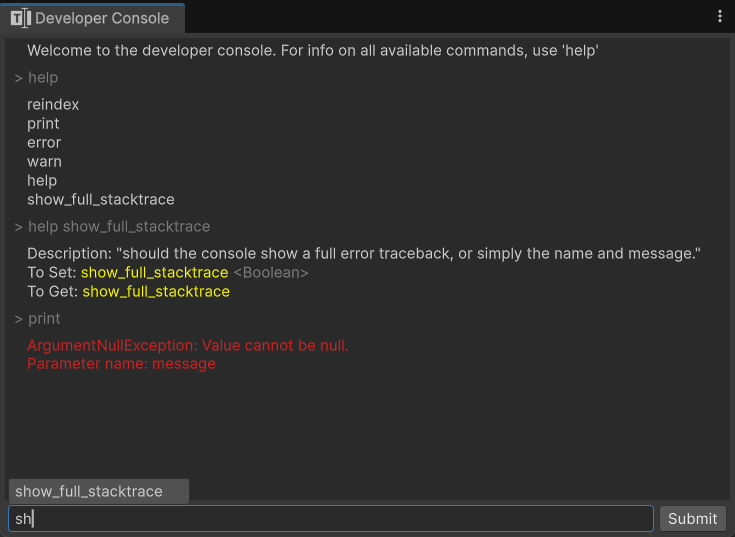
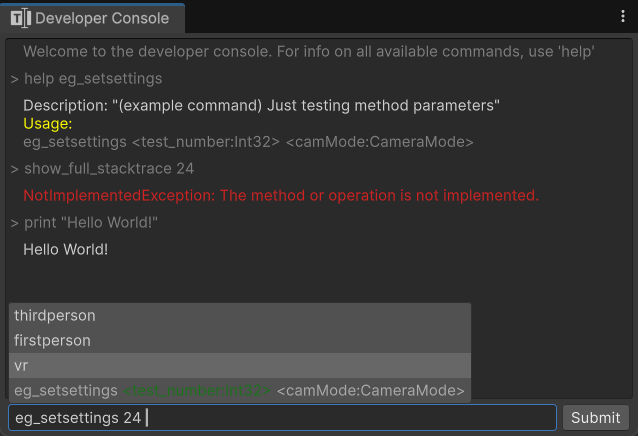
patch

Changed region(s): [[0.0, 0.0, 1.0, 0.5963], [0.0, 0.6261, 0.9828, 1.0]]

diff --git a/Assets/SourceDeveloperConsole/UITK/DefaultDeveloperConsole.cs b/Assets/SourceDeveloperConsole/UITK/DefaultDeveloperConsole.cs
@@ -253,9 +253,10 @@ namespace Farbod.DeveloperConsole
             m_SuggestionLabels = new Label[items.Count()];
             for (int i = 0; i < m_SuggestionLabels.Length; i++)
             {
-                Label itemLabel = new Label(items[i]);
+                string txt = items[i];
+                Label itemLabel = new Label(txt);
                 itemLabel.AddToClassList("replacement");
-                itemLabel.RegisterCallback<ClickEvent>(evt => ApplySuggestion(items[i]));
+                itemLabel.RegisterCallback<ClickEvent>(evt => ApplySuggestion(txt));
                 m_SuggestionPopup.Add(itemLabel);
 
                 m_SuggestionLabels[i] = itemLabel;